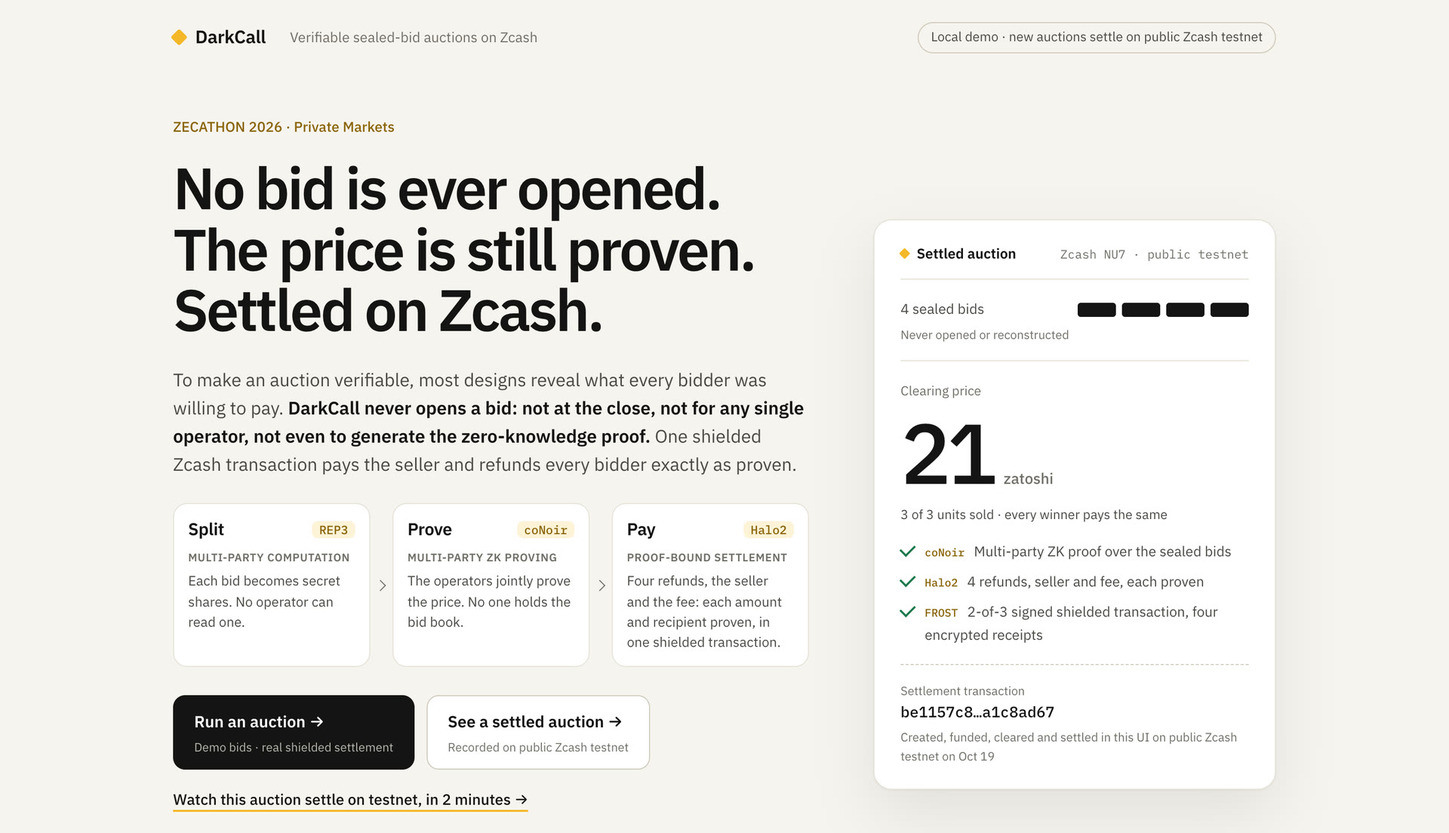
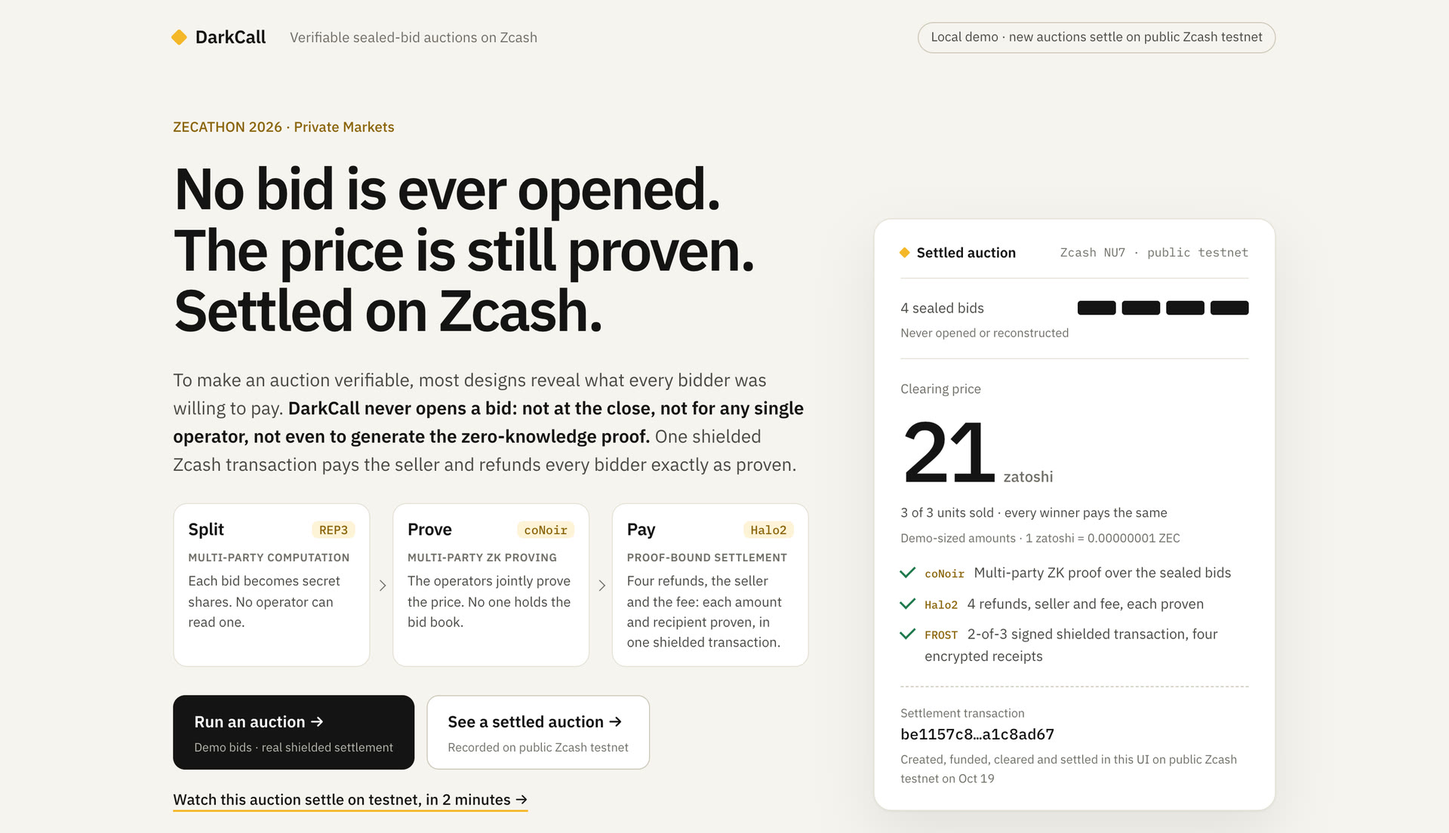
Answer the first-read questions: why 21, why 15,100, where to check
- Price: the walkthrough's Prove step says that with the demo bids 77, 61,
  43 and 21 and three units, the top three win and each pays 21, the
  highest losing bid.
- Deposit: the escrow card and Fund step break 15,100 into the 100 budget
  and a 15,000 processing fee (demo values) that covers the 30,000
  network fee and the operator fee, as in auction-core's settlement.
- Scale: the settled-auction card says amounts are demo-sized
  (1 zatoshi = 0.00000001 ZEC).
- Public data: the hero note says the public learns the price and the
  units sold, never the bid book or payouts, and that the price implies
  the highest losing bid's amount.
- Signatures: all three operators sign the accepted book; any two FROST
  signers authorize the settlement, only after every proof checks out.
- Time: the measured row shows 9 s to clear next to 19 min to settle on
  testnet (every output proven, signed and confirmed), replacing "1 tx".
- Comparison heading narrowed to "Commit-reveal opens the bids to prove
  the price."
- Testnet deposit and settlement txids link to ZecBlock, a third-party
  testnet explorer (both resolve as v6 transactions in blocks 4,518,254
  and 4,518,315), on the landing, the evidence page and the README, with
  a line separating what Zcash validates from what DarkCall's verifier
  checks, and the evidence record linked.

Both pages checked at 1440, 1280 and 390 px with no horizontal overflow.
The README image is recaptured; the video frames are unchanged.

diff --git a/demo/index.html b/demo/index.html
@@ -30,12 +30,12 @@
             <button id="show-recording" class="experience-card proof-card" aria-pressed="false"><span class="experience-heading">See a settled auction</span><span class="experience-caption">Open a bidder's receipt or verify the settlement.</span><span id="proof-card-scope" class="experience-scope">Recorded on isolated regtest</span></button>
           </nav>
           <a class="watch-link" href="/media/darkcall-demo-v2.mp4">Watch this auction settle on testnet, in 2 minutes →</a>
-          <p class="hero-note">Beyond the auction terms, one number is public: the clearing price, which by the auction rule equals the highest losing bid or the reserve. In this demo each bidder's own client runs as a local service; operators receive only shares and proofs, never a bid.</p>
+          <p class="hero-note">Beyond the auction terms, the public learns the clearing price and the units sold, never the bid book or any payout. By the auction rule the price equals the highest losing bid or the reserve, so that one amount is implied. In this demo each bidder's own client runs as a local service; operators receive only shares and proofs, never a bid.</p>
         </div>
         <aside class="hero-receipt" aria-label="A settled DarkCall auction">
           <div class="receipt-head"><span id="hero-label">Settled auction</span><span id="hero-chain">Zcash NU7 · regtest</span></div>
           <div class="receipt-bids"><span id="hero-tickets">4 sealed bids</span><div aria-hidden="true"><b></b><b></b><b></b><b></b></div><small>Never opened or reconstructed</small></div>
-          <div class="receipt-price"><span>Clearing price</span><strong><span id="hero-price">21</span><i>zatoshi</i></strong><small id="hero-sold">3 of 3 units sold · every winner pays the same</small></div>
+          <div class="receipt-price"><span>Clearing price</span><strong><span id="hero-price">21</span><i>zatoshi</i></strong><small id="hero-sold">3 of 3 units sold · every winner pays the same</small><small class="receipt-scale">Demo-sized amounts · 1 zatoshi = 0.00000001 ZEC</small></div>
           <ul class="receipt-checks">
             <li><span><em>coNoir</em> Multi-party ZK proof over the sealed bids</span></li>
             <li><span><em>Halo2</em> 4 refunds, seller and fee, each proven</span></li>
@@ -96,7 +96,7 @@
         <div class="walk-stage" id="walk-stage" data-step="1">
           <div class="w-bidders"><div class="w-bidder"><span>Ticket 01</span><b class="w-seal w-bid"><i>77</i></b><div class="w-shares w-from" data-from="1"><i class="s1">1</i><i class="s2">2</i><i class="s3">3</i><small>3 shares</small></div></div><div class="w-bidder"><span>Ticket 02</span><b class="w-seal w-bid"><i>61</i></b><div class="w-shares w-from" data-from="1"><i class="s1">1</i><i class="s2">2</i><i class="s3">3</i><small>3 shares</small></div></div><div class="w-bidder"><span>Ticket 03</span><b class="w-seal w-bid"><i>43</i></b><div class="w-shares w-from" data-from="1"><i class="s1">1</i><i class="s2">2</i><i class="s3">3</i><small>3 shares</small></div></div><div class="w-bidder"><span>Ticket 04</span><b class="w-seal w-bid"><i>21</i></b><div class="w-shares w-from" data-from="1"><i class="s1">1</i><i class="s2">2</i><i class="s3">3</i><small>3 shares</small></div></div></div>
           <div class="w-ops"><div class="w-op w-from" data-from="1" data-now="1 3"><span>Operator A holds ①③</span><div class="w-held"><div><em>T01</em><i class="s1">1</i><i class="s3">3</i></div><div><em>T02</em><i class="s1">1</i><i class="s3">3</i></div><div><em>T03</em><i class="s1">1</i><i class="s3">3</i></div><div><em>T04</em><i class="s1">1</i><i class="s3">3</i></div></div><small>Never all three shares of any bid</small></div><div class="w-op w-from" data-from="1" data-now="1 3"><span>Operator B holds ②①</span><div class="w-held"><div><em>T01</em><i class="s2">2</i><i class="s1">1</i></div><div><em>T02</em><i class="s2">2</i><i class="s1">1</i></div><div><em>T03</em><i class="s2">2</i><i class="s1">1</i></div><div><em>T04</em><i class="s2">2</i><i class="s1">1</i></div></div><small>Never all three shares of any bid</small></div><div class="w-op w-from" data-from="1" data-now="1 3"><span>Operator C holds ③②</span><div class="w-held"><div><em>T01</em><i class="s3">3</i><i class="s2">2</i></div><div><em>T02</em><i class="s3">3</i><i class="s2">2</i></div><div><em>T03</em><i class="s3">3</i><i class="s2">2</i></div><div><em>T04</em><i class="s3">3</i><i class="s2">2</i></div></div><small>Never all three shares of any bid</small></div></div>
-          <div class="w-escrow w-from" data-from="2"><span>Shielded 2-of-3 escrow</span><b>4 × 15,100 zatoshi</b><small>Accepted book signed by A, B and C</small></div>
+          <div class="w-escrow w-from" data-from="2"><span>Shielded 2-of-3 escrow</span><b>4 × 15,100 zatoshi</b><small>Each: 100 budget + 15,000 processing fee (demo values). All three operators sign the accepted book.</small></div>
           <div class="w-result w-from" data-from="3"><span>Computed on shares</span><b>Price 21 · 3 of 3 sold</b><small class="w-proof">coNoir proof ✓ · no bid list rebuilt</small></div>
           <div class="w-settle w-from" data-from="4"><span>One shielded transaction · six outputs</span><ol><li><span>Refund · Ticket 01</span><b class="w-seal"><i>79</i></b><em>Halo2 ✓ note</em></li><li><span>Refund · Ticket 02</span><b class="w-seal"><i>79</i></b><em>Halo2 ✓ note</em></li><li><span>Refund · Ticket 03</span><b class="w-seal"><i>79</i></b><em>Halo2 ✓ note</em></li><li><span>Refund · Ticket 04</span><b class="w-seal"><i>100</i></b><em>Halo2 ✓ note</em></li><li><span>Seller · payment</span><b class="w-seal"><i>63</i></b><em>Halo2 ✓ note</em></li><li><span>Operator · fee</span><b class="w-seal"><i>30,000</i></b><em>Halo2 ✓ note</em></li></ol></div>
           <div class="w-public w-from" data-from="5"><div><span>Anyone sees</span><b>Price 21 · 3 sold · proofs ✓</b><small>No secrets needed to verify</small></div><div class="w-own"><span>Ticket 01's private receipt</span><b>Won · refund 79</b><small>Decrypted from its own memo with its own key</small></div></div>
@@ -125,7 +125,7 @@
       </div>
       <div class="bind-facts">
         <p><b>Across two curves.</b> The auction proof lives on BN254, while Zcash's shielded notes are commitments on Pallas, so the auction proof cannot speak about them directly. Each Halo2 proof recomputes one row's BN254 Poseidon2 commitment inside a Pallas circuit and shows that it holds the same amount and recipient as one native note commitment.</p>
-        <p><b>What checks what.</b> The Zcash network validates the native transaction. DarkCall's public verifier checks the auction proof, the six output bindings and the operator-signed accepted book from the published bundle, with no secrets. Honest signers sign only after every proof checks out.</p>
+        <p><b>What checks what.</b> The Zcash network validates the native transaction. DarkCall's public verifier checks the auction proof, the six output bindings and the operator-signed accepted book from the published bundle, with no secrets. All three operators sign the accepted book; any two of the three FROST signers authorize the settlement, and honest signers do so only after every proof checks out.</p>
       </div>
       <p class="bind-design"><b>Performance note.</b> In an earlier experiment, coNoir's joint proof of the six-row plan took 1,655 s with SHA-256 row commitments and 8.2 s with field-native Poseidon2. Both figures cover that proving step only, not the six Halo2 proofs.</p>
     </section>
@@ -135,17 +135,17 @@
       <h2 id="proven-title">It ran end to end on testnet.</h2>
       <p class="section-lead">On October 19 this auction was created, funded, cleared and settled <b>in this UI on standard public Zcash testnet (NU7)</b>. It is the auction in the video and under "See a settled auction".</p>
       <dl class="proven-facts">
-        <div><dt>Deposits</dt><dd><code>af6cf7cf…eff6354</code><small>Block 4,518,254 · 2 confirmations</small></dd></div>
+        <div><dt>Deposits</dt><dd><a href="https://testnet.zecblock.com/tx/af6cf7cf6314bd946d76aec951f8277f12a4e27a97a335b81dbcbc241eff6354"><code>af6cf7cf…eff6354</code></a><small>Block 4,518,254 · 2 confirmations</small></dd></div>
         <div><dt>Clearing proof</dt><dd><strong>8.1 s</strong><small>Price 21 · 3 of 3 sold</small></dd></div>
-        <div><dt>Settlement</dt><dd><code>be1157c8…a1c8ad67</code><small>Block 4,518,315 · 2 confirmations</small></dd></div>
+        <div><dt>Settlement</dt><dd><a href="https://testnet.zecblock.com/tx/be1157c884ce015e87993f105ebf44c3ab7f78e895d783fd002948c3a1c8ad67"><code>be1157c8…a1c8ad67</code></a><small>Block 4,518,315 · 2 confirmations · settled in 19&nbsp;min</small></dd></div>
         <div><dt>Public check</dt><dd><strong>102 s</strong><small>No secrets · tampered proof refused</small></dd></div>
       </dl>
-      <p class="fine-print">Chain data came from one lightwalletd provider (testnet.zec.rocks). Record: evidence/2026-10-19-public-testnet-settlement.json in the repository.</p>
+      <p class="fine-print">Zcash validated these native transactions; DarkCall's public verifier checked the auction proof, the six output bindings and the signed accepted book. Transaction links open ZecBlock, a third-party testnet explorer. The run read chain data from one lightwalletd provider (testnet.zec.rocks). <a href="https://github.com/yugocabrio/ZECATHON/blob/main/evidence/2026-10-19-public-testnet-settlement.json">Full record</a>.</p>
     </section>
 
     <section class="landing-more" aria-labelledby="compare-title">
-      <h2 id="compare-title">Other auctions open the bids to prove the price.</h2>
-      <p class="section-lead">Commit–reveal and published viewing keys show every bid amount after the close. That matters wherever amounts are strategic: allocation rounds, ad slots, procurement. DarkCall proves the price without opening any, then pays out in shielded ZEC.</p>
+      <h2 id="compare-title">Commit–reveal opens the bids to prove the price.</h2>
+      <p class="section-lead">So does publishing a viewing key: every bid amount is visible after the close. That matters wherever amounts are strategic: allocation rounds, ad slots, procurement. DarkCall proves the price without opening any, then pays out in shielded ZEC.</p>
       <div class="compare-wrap">
         <table class="compare">
           <thead><tr><th scope="col"><span class="visually-hidden">Property</span></th><th scope="col" class="us">DarkCall</th><th scope="col">Open on-chain auction</th><th scope="col">Commit–reveal or published viewing key</th><th scope="col">Trusted auctioneer or key committee</th></tr></thead>
@@ -161,7 +161,7 @@
       <div class="measured" aria-label="Measured on one 16 GiB laptop">
         <div><strong>0.6 s</strong><span>to seal a bid with its zero-knowledge proof</span></div>
         <div><strong>9 s</strong><span>to clear four sealed bids by MPC, proof included</span></div>
-        <div><strong>1 tx</strong><span>pays the seller and refunds all four bidders</span></div>
+        <div><strong>19 min</strong><span>to settle on testnet: every output proven, signed and confirmed</span></div>
         <div><strong>~100 s</strong><span>for anyone to verify a settlement, no secrets needed</span></div>
       </div>
       <details class="landing-trust"><summary>Trust model: what DarkCall does not prove</summary><ul>

diff --git a/docs/index.html b/docs/index.html
@@ -342,7 +342,7 @@ footer a {color:var(--ink-2)}
         <div class="walk-stage static">
           <div class="w-bidders"><div class="w-bidder"><span>Ticket 01</span><b class="w-seal w-bid"><i>77</i></b><div class="w-shares w-from" data-from="1"><i class="s1">1</i><i class="s2">2</i><i class="s3">3</i><small>3 shares</small></div></div><div class="w-bidder"><span>Ticket 02</span><b class="w-seal w-bid"><i>61</i></b><div class="w-shares w-from" data-from="1"><i class="s1">1</i><i class="s2">2</i><i class="s3">3</i><small>3 shares</small></div></div><div class="w-bidder"><span>Ticket 03</span><b class="w-seal w-bid"><i>43</i></b><div class="w-shares w-from" data-from="1"><i class="s1">1</i><i class="s2">2</i><i class="s3">3</i><small>3 shares</small></div></div><div class="w-bidder"><span>Ticket 04</span><b class="w-seal w-bid"><i>21</i></b><div class="w-shares w-from" data-from="1"><i class="s1">1</i><i class="s2">2</i><i class="s3">3</i><small>3 shares</small></div></div></div>
           <div class="w-ops"><div class="w-op w-from" data-from="1" data-now="1 3"><span>Operator A holds ①③</span><div class="w-held"><div><em>T01</em><i class="s1">1</i><i class="s3">3</i></div><div><em>T02</em><i class="s1">1</i><i class="s3">3</i></div><div><em>T03</em><i class="s1">1</i><i class="s3">3</i></div><div><em>T04</em><i class="s1">1</i><i class="s3">3</i></div></div><small>Never all three shares of any bid</small></div><div class="w-op w-from" data-from="1" data-now="1 3"><span>Operator B holds ②①</span><div class="w-held"><div><em>T01</em><i class="s2">2</i><i class="s1">1</i></div><div><em>T02</em><i class="s2">2</i><i class="s1">1</i></div><div><em>T03</em><i class="s2">2</i><i class="s1">1</i></div><div><em>T04</em><i class="s2">2</i><i class="s1">1</i></div></div><small>Never all three shares of any bid</small></div><div class="w-op w-from" data-from="1" data-now="1 3"><span>Operator C holds ③②</span><div class="w-held"><div><em>T01</em><i class="s3">3</i><i class="s2">2</i></div><div><em>T02</em><i class="s3">3</i><i class="s2">2</i></div><div><em>T03</em><i class="s3">3</i><i class="s2">2</i></div><div><em>T04</em><i class="s3">3</i><i class="s2">2</i></div></div><small>Never all three shares of any bid</small></div></div>
-          <div class="w-escrow w-from" data-from="2"><span>Shielded 2-of-3 escrow</span><b>4 × 15,100 zatoshi</b><small>Accepted book signed by A, B and C</small></div>
+          <div class="w-escrow w-from" data-from="2"><span>Shielded 2-of-3 escrow</span><b>4 × 15,100 zatoshi</b><small>Each: 100 budget + 15,000 processing fee (demo values). All three operators sign the accepted book.</small></div>
           <div class="w-result w-from" data-from="3"><span>Computed on shares</span><b>Price 21 · 3 of 3 sold</b><small class="w-proof">coNoir proof ✓ · no bid list rebuilt</small></div>
           <div class="w-settle w-from" data-from="4"><span>One shielded transaction · six outputs</span><ol><li><span>Refund · Ticket 01</span><b class="w-seal"><i>79</i></b><em>Halo2 ✓ note</em></li><li><span>Refund · Ticket 02</span><b class="w-seal"><i>79</i></b><em>Halo2 ✓ note</em></li><li><span>Refund · Ticket 03</span><b class="w-seal"><i>79</i></b><em>Halo2 ✓ note</em></li><li><span>Refund · Ticket 04</span><b class="w-seal"><i>100</i></b><em>Halo2 ✓ note</em></li><li><span>Seller · payment</span><b class="w-seal"><i>63</i></b><em>Halo2 ✓ note</em></li><li><span>Operator · fee</span><b class="w-seal"><i>30,000</i></b><em>Halo2 ✓ note</em></li></ol></div>
           <div class="w-public w-from" data-from="5"><div><span>Anyone sees</span><b>Price 21 · 3 sold · proofs ✓</b><small>No secrets needed to verify</small></div><div class="w-own"><span>Ticket 01's private receipt</span><b>Won · refund 79</b><small>Decrypted from its own memo with its own key</small></div></div>
@@ -371,7 +371,7 @@ footer a {color:var(--ink-2)}
       </div>
       <div class="bind-facts">
         <p><b>Across two curves.</b> The auction proof lives on BN254, while Zcash's shielded notes are commitments on Pallas, so the auction proof cannot speak about them directly. Each Halo2 proof recomputes one row's BN254 Poseidon2 commitment inside a Pallas circuit and shows that it holds the same amount and recipient as one native note commitment.</p>
-        <p><b>What checks what.</b> The Zcash network validates the native transaction. DarkCall's public verifier checks the auction proof, the six output bindings and the operator-signed accepted book from the published bundle, with no secrets. Honest signers sign only after every proof checks out.</p>
+        <p><b>What checks what.</b> The Zcash network validates the native transaction. DarkCall's public verifier checks the auction proof, the six output bindings and the operator-signed accepted book from the published bundle, with no secrets. All three operators sign the accepted book; any two of the three FROST signers authorize the settlement, and honest signers do so only after every proof checks out.</p>
       </div>
       <p class="bind-design"><b>Performance note.</b> In an earlier experiment, coNoir's joint proof of the six-row plan took 1,655 s with SHA-256 row commitments and 8.2 s with field-native Poseidon2. Both figures cover that proving step only, not the six Halo2 proofs.</p>
     </section>
@@ -379,16 +379,16 @@ footer a {color:var(--ink-2)}
 <h2>Settled on public Zcash testnet.</h2>
 <p class="sub">On October 19 the auction in the video was created, funded, cleared and settled by clicking through the browser on standard public testnet (NU7), with testnet coins and the same admission, proofs and signing as everything below.</p>
 <dl class="facts">
-<dt>Deposits</dt><dd><code>af6cf7cf6314bd946d76aec951f8277f12a4e27a97a335b81dbcbc241eff6354</code><br>block 4,518,254, two confirmations; four client proofs and twelve share pairs re-verified</dd>
+<dt>Deposits</dt><dd><a href="https://testnet.zecblock.com/tx/af6cf7cf6314bd946d76aec951f8277f12a4e27a97a335b81dbcbc241eff6354"><code>af6cf7cf6314bd946d76aec951f8277f12a4e27a97a335b81dbcbc241eff6354</code></a><br>block 4,518,254, two confirmations; four client proofs and twelve share pairs re-verified</dd>
 <dt>Clearing</dt><dd>REP3 price 21 zatoshi, 3 of 3 sold, after funding</dd>
-<dt>Settlement</dt><dd><code>be1157c884ce015e87993f105ebf44c3ab7f78e895d783fd002948c3a1c8ad67</code><br>block 4,518,315, two confirmations; six output bindings and 2-of-3 FROST, 1122 s</dd>
+<dt>Settlement</dt><dd><a href="https://testnet.zecblock.com/tx/be1157c884ce015e87993f105ebf44c3ab7f78e895d783fd002948c3a1c8ad67"><code>be1157c884ce015e87993f105ebf44c3ab7f78e895d783fd002948c3a1c8ad67</code></a><br>block 4,518,315, two confirmations; six output bindings and 2-of-3 FROST, 1122 s</dd>
 <dt>Public check</dt><dd>102 s with no secrets; a corrupted receipt proof is refused</dd>
 <dt>Own receipts</dt><dd>Ticket 01 won, refund 79; Ticket 04 lost, refund 100; each decrypted from its own memo</dd>
 </dl>
-<p class="caption">An earlier testnet auction driven by the HTTP harness (settlement 8e6da99bc6…034f0db7) also passed every refusal check. Chain data came from one lightwalletd provider (testnet.zec.rocks) over validated TLS. <a href="https://github.com/yugocabrio/ZECATHON/blob/main/evidence/2026-10-19-public-testnet-settlement.json">Full record</a>.</p>
+<p class="caption">An earlier testnet auction driven by the HTTP harness (settlement 8e6da99bc6…034f0db7) also passed every refusal check. Zcash validated the native transactions; DarkCall's public verifier checked the auction proof, the six output bindings and the signed accepted book. Transaction links open ZecBlock, a third-party testnet explorer. Chain data came from one lightwalletd provider (testnet.zec.rocks) over validated TLS. <a href="https://github.com/yugocabrio/ZECATHON/blob/main/evidence/2026-10-19-public-testnet-settlement.json">Full record</a>.</p>
 
-<h2>Other auctions open the bids to prove the price.</h2>
-<p class="sub">Commit–reveal and published viewing keys show every bid amount after the close. DarkCall proves the price without opening any, then pays out in shielded ZEC.</p>
+<h2>Commit–reveal opens the bids to prove the price.</h2>
+<p class="sub">So does publishing a viewing key: every bid amount is visible after the close. DarkCall proves the price without opening any, then pays out in shielded ZEC.</p>
 <div class="compare-wrap"><table class="compare">
 <thead><tr><th scope="col"></th><th scope="col" class="us">DarkCall</th><th scope="col">Open on-chain auction</th><th scope="col">Commit–reveal or published viewing key</th><th scope="col">Trusted auctioneer or key committee</th></tr></thead>
 <tbody>
@@ -401,7 +401,7 @@ footer a {color:var(--ink-2)}
 <div class="measured">
 <div><strong>0.6 s</strong><span>to seal a bid with its zero-knowledge proof</span></div>
 <div><strong>8.1 s</strong><span>to clear four sealed bids by MPC in this run, proof included</span></div>
-<div><strong>1 tx</strong><span>pays the seller and refunds all four bidders</span></div>
+<div><strong>19 min</strong><span>to settle on testnet: every output proven, signed and confirmed</span></div>
 <div><strong>~100 s</strong><span>for anyone to verify a settlement, no secrets needed</span></div>
 </div>
 <p class="caption">Common designs compared, not specific projects. Timings from one 16 GiB laptop.</p>
@@ -411,8 +411,8 @@ footer a {color:var(--ink-2)}
 <dl class="facts">
 <dt>Auction</dt><dd><code>4dde6fcbc11bb931bcecb01a6617510f</code></dd>
 <dt>Accepted root (same book throughout)</dt><dd><code>0636b15349…fb153498</code></dd>
-<dt>Deposit transaction</dt><dd><code>af6cf7cf6314bd946d76aec951f8277f12a4e27a97a335b81dbcbc241eff6354</code></dd>
-<dt>Settlement transaction</dt><dd><code>be1157c884ce015e87993f105ebf44c3ab7f78e895d783fd002948c3a1c8ad67</code></dd>
+<dt>Deposit transaction</dt><dd><a href="https://testnet.zecblock.com/tx/af6cf7cf6314bd946d76aec951f8277f12a4e27a97a335b81dbcbc241eff6354"><code>af6cf7cf6314bd946d76aec951f8277f12a4e27a97a335b81dbcbc241eff6354</code></a></dd>
+<dt>Settlement transaction</dt><dd><a href="https://testnet.zecblock.com/tx/be1157c884ce015e87993f105ebf44c3ab7f78e895d783fd002948c3a1c8ad67"><code>be1157c884ce015e87993f105ebf44c3ab7f78e895d783fd002948c3a1c8ad67</code></a></dd>
 <dt>Outcome</dt><dd>21 zatoshi per unit, 3 of 3 sold. Each winner gets 79 back, the loser gets 100, and the seller receives 63.</dd>
 </dl>
 <article class="step"><a class="shot" href="site/02-create.jpg"><img src="site/02-create.jpg" alt="Create" loading="lazy" width="1120" height="1080"></a>

diff --git a/demo/app.js b/demo/app.js
@@ -549,8 +549,8 @@ setInterval(refreshRoom,1000);
   const stage=$('walk-stage'); if (!stage) return;
   const captions=[
     [['Seal. ',1],['Each bid becomes a commitment and three secret shares, ① ② ③. Operator A holds ① ③, B holds ② ①, C holds ③ ②: ',0],['no operator ever holds all three, so none can read a bid',1],['. A zero-knowledge proof ties every commitment to its shares.',0]],
-    [['Fund. ',1],['Each ticket locks its budget plus fee in a ',0],['shielded 2-of-3 escrow',1],['. The operators check the deposits against the same proofs and shares, then all three ',0],['sign the accepted book',1],['.',0]],
-    [['Prove. ',1],['The three operators compute together on their shares and generate one proof jointly: multi-party ZK proving with coNoir. Three units for four bids gives a ',0],['price of 21',1],[', the highest losing bid. The proof shows it follows the rules over exactly the committed bids; ',0],['no bid list is ever rebuilt',1],['.',0]],
+    [['Fund. ',1],['Each ticket locks 15,100 zatoshi, its 100 budget plus a 15,000 processing fee for the network and operator fees, in a ',0],['shielded 2-of-3 escrow',1],['. The operators check the deposits against the same proofs and shares, then all three ',0],['sign the accepted book',1],['; any two can later authorize the payout.',0]],
+    [['Prove. ',1],['The three operators compute together on their shares and generate one proof jointly: multi-party ZK proving with coNoir. With the demo bids 77, 61, 43 and 21 and three units, the top three win and each pays the ',0],['price of 21',1],[', the highest losing bid. The proof shows it follows the rules over exactly the committed bids; ',0],['no bid list is ever rebuilt',1],['.',0]],
     [['Settle. ',1],['The same computation yields six payment rows: refunds of 79, 79, 79 and 100, 63 to the seller, and the operator fee. ',0],['Six Halo2 proofs bind each row to a real note',1],[' in one shielded transaction.',0]],
     [['Verify. ',1],['Anyone checks the proofs ',0],['with no secrets',1],[': price 21, three sold, every output bound to the result. Ticket 01 decrypts its own memo with its own key: ',0],['won, refund 79',1],['.',0]],
   ];

diff --git a/demo/style.css b/demo/style.css
@@ -71,6 +71,7 @@ h1 {font-size:clamp(44px,6.6vw,80px);line-height:1.02;letter-spacing:-.04em;max-
 .receipt-price strong {display:flex;align-items:baseline;gap:10px;font-size:84px;line-height:1;font-weight:500;letter-spacing:-.05em;font-variant-numeric:tabular-nums;margin:8px 0 8px}
 .receipt-price strong i {font-style:normal;font-size:15px;letter-spacing:0;color:var(--ink-3)}
 .receipt-price small {font-size:13px;color:var(--ink-2)}
+.receipt-price .receipt-scale {display:block;margin-top:4px;font-size:12px;color:var(--ink-3)}
 .receipt-checks {list-style:none;margin:0;padding:0 0 18px;display:grid;gap:8px}
 .receipt-checks li {display:flex;gap:10px;align-items:baseline;color:var(--ink-2)}
 .receipt-checks li::before {content:"";flex:none;width:12px;height:7px;border-left:2px solid var(--green);border-bottom:2px solid var(--green);transform:translateY(-3px) rotate(-45deg)}

diff --git a/scripts/build_evidence_site.py b/scripts/build_evidence_site.py
@@ -17,6 +17,7 @@ DOCS = ROOT / 'docs'
 SITE = DOCS / 'site'
 MEDIA = ROOT / 'demo/media/v2'
 REPO = 'https://github.com/yugocabrio/ZECATHON/blob/main/'
+EXPLORER = 'https://testnet.zecblock.com/tx/'
 FRAMES = ['01-landing', '02-create', '04-sealed', '07-funded', '09-cleared', '10-own-result',
           '16-settled', '18-receipt-won', '19-receipt-lost', '20-receipt-tamper']
 e = html.escape
@@ -115,7 +116,7 @@ def build():
         bundle_path=e(tn_bundle['bundle']), authority_path=e(tn_bundle['authority']),
         tn_deposit=e(browser_run['deposit_txid']), tn_deposit_height=f"{browser_run['deposit_block']['height']:,}",
         tn_txid=e(browser_run['settlement_txid']), tn_height=f"{browser_run['settlement_block']['height']:,}",
-        tn_settle_s=round(browser_run['settlement_driver_seconds']), tn_check_s=round(browser_run['public_verification_seconds']),
+        tn_settle_s=round(browser_run['settlement_driver_seconds']), tn_settle_min=round(browser_run['settlement_driver_seconds'] / 60), explorer=EXPLORER, tn_check_s=round(browser_run['public_verification_seconds']),
         tn_price=testnet['clearing']['price'], tn_sold=testnet['clearing']['sold'],
         tn_api_txid=e(short(testnet['settlement']['txid'])),
         how_html=how_html, how_css=how_css)
@@ -259,16 +260,16 @@ footer a {{color:var(--ink-2)}}
 <h2>Settled on public Zcash testnet.</h2>
 <p class="sub">On October 19 the auction in the video was created, funded, cleared and settled by clicking through the browser on standard public testnet (NU7), with testnet coins and the same admission, proofs and signing as everything below.</p>
 <dl class="facts">
-<dt>Deposits</dt><dd><code>{tn_deposit}</code><br>block {tn_deposit_height}, two confirmations; four client proofs and twelve share pairs re-verified</dd>
+<dt>Deposits</dt><dd><a href="{explorer}{tn_deposit}"><code>{tn_deposit}</code></a><br>block {tn_deposit_height}, two confirmations; four client proofs and twelve share pairs re-verified</dd>
 <dt>Clearing</dt><dd>REP3 price {tn_price} zatoshi, {tn_sold} of 3 sold, after funding</dd>
-<dt>Settlement</dt><dd><code>{tn_txid}</code><br>block {tn_height}, two confirmations; six output bindings and 2-of-3 FROST, {tn_settle_s} s</dd>
+<dt>Settlement</dt><dd><a href="{explorer}{tn_txid}"><code>{tn_txid}</code></a><br>block {tn_height}, two confirmations; six output bindings and 2-of-3 FROST, {tn_settle_s} s</dd>
 <dt>Public check</dt><dd>{tn_check_s} s with no secrets; a corrupted receipt proof is refused</dd>
 <dt>Own receipts</dt><dd>Ticket 01 won, refund 79; Ticket 04 lost, refund 100; each decrypted from its own memo</dd>
 </dl>
-<p class="caption">An earlier testnet auction driven by the HTTP harness (settlement {tn_api_txid}) also passed every refusal check. Chain data came from one lightwalletd provider (testnet.zec.rocks) over validated TLS. <a href="{repo}evidence/2026-10-19-public-testnet-settlement.json">Full record</a>.</p>
+<p class="caption">An earlier testnet auction driven by the HTTP harness (settlement {tn_api_txid}) also passed every refusal check. Zcash validated the native transactions; DarkCall's public verifier checked the auction proof, the six output bindings and the signed accepted book. Transaction links open ZecBlock, a third-party testnet explorer. Chain data came from one lightwalletd provider (testnet.zec.rocks) over validated TLS. <a href="{repo}evidence/2026-10-19-public-testnet-settlement.json">Full record</a>.</p>
 
-<h2>Other auctions open the bids to prove the price.</h2>
-<p class="sub">Commit–reveal and published viewing keys show every bid amount after the close. DarkCall proves the price without opening any, then pays out in shielded ZEC.</p>
+<h2>Commit–reveal opens the bids to prove the price.</h2>
+<p class="sub">So does publishing a viewing key: every bid amount is visible after the close. DarkCall proves the price without opening any, then pays out in shielded ZEC.</p>
 <div class="compare-wrap"><table class="compare">
 <thead><tr><th scope="col"></th><th scope="col" class="us">DarkCall</th><th scope="col">Open on-chain auction</th><th scope="col">Commit–reveal or published viewing key</th><th scope="col">Trusted auctioneer or key committee</th></tr></thead>
 <tbody>
@@ -281,7 +282,7 @@ footer a {{color:var(--ink-2)}}
 <div class="measured">
 <div><strong>0.6 s</strong><span>to seal a bid with its zero-knowledge proof</span></div>
 <div><strong>{clearing_s} s</strong><span>to clear four sealed bids by MPC in this run, proof included</span></div>
-<div><strong>1 tx</strong><span>pays the seller and refunds all four bidders</span></div>
+<div><strong>{tn_settle_min} min</strong><span>to settle on testnet: every output proven, signed and confirmed</span></div>
 <div><strong>~100 s</strong><span>for anyone to verify a settlement, no secrets needed</span></div>
 </div>
 <p class="caption">Common designs compared, not specific projects. Timings from one 16 GiB laptop.</p>
@@ -291,8 +292,8 @@ footer a {{color:var(--ink-2)}}
 <dl class="facts">
 <dt>Auction</dt><dd><code>{auction}</code></dd>
 <dt>Accepted root (same book throughout)</dt><dd><code>{root}</code></dd>
-<dt>Deposit transaction</dt><dd><code>{deposit}</code></dd>
-<dt>Settlement transaction</dt><dd><code>{txid}</code></dd>
+<dt>Deposit transaction</dt><dd><a href="{explorer}{deposit}"><code>{deposit}</code></a></dd>
+<dt>Settlement transaction</dt><dd><a href="{explorer}{txid}"><code>{txid}</code></a></dd>
 <dt>Outcome</dt><dd>{price} zatoshi per unit, {sold} of 3 sold. Each winner gets {winner_refund} back, the loser gets 100, and the seller receives {seller}.</dd>
 </dl>
 {steps}

diff --git a/README.md b/README.md
@@ -19,7 +19,7 @@ can verify pays the seller and refunds every bidder exactly as proven.**
 ZECATHON 2026 · Private Markets track. **[Watch the 2-minute demo](demo/media/v2/darkcall-demo-v2.mp4)**:
 one real auction, from creation to shielded receipts, with every time cut labeled.
 **Settled on public Zcash testnet** from the browser on Oct 19: settlement tx
-`be1157c8…a1c8ad67` at block 4,518,315 ([record](#settled-on-public-zcash-testnet)).
+[`be1157c8…a1c8ad67`](https://testnet.zecblock.com/tx/be1157c884ce015e87993f105ebf44c3ab7f78e895d783fd002948c3a1c8ad67) at block 4,518,315 ([record](#settled-on-public-zcash-testnet)).
 
 ![DarkCall landing page: no bid is ever opened, the price is still proven, settled on Zcash; split, prove and pay as multi-party computation, multi-party ZK proving and proof-bound settlement; beside it, a real auction settled in this UI on public Zcash testnet](demo/media/landing-hero.jpg)
 
@@ -143,11 +143,15 @@ auction in the video and under "See a settled auction":
 
 | Step | Public testnet record |
 | --- | --- |
-| Fund | Deposit tx `af6cf7cf…eff6354`, block 4,518,254, 2 confirmations. 4 client proofs and 12 share pairs re-verified; 3 operators signed the same root |
+| Fund | Deposit tx [`af6cf7cf…eff6354`](https://testnet.zecblock.com/tx/af6cf7cf6314bd946d76aec951f8277f12a4e27a97a335b81dbcbc241eff6354), block 4,518,254, 2 confirmations. 4 client proofs and 12 share pairs re-verified; 3 operators signed the same root |
 | Clear | REP3 price **21**, 3 of 3 sold, 8.1 s, after funding |
-| Settle | Settlement tx `be1157c8…a1c8ad67`, block 4,518,315, 2 confirmations. Six output bindings, 2-of-3 DKG FROST |
+| Settle | Settlement tx [`be1157c8…a1c8ad67`](https://testnet.zecblock.com/tx/be1157c884ce015e87993f105ebf44c3ab7f78e895d783fd002948c3a1c8ad67), block 4,518,315, 2 confirmations. Six output bindings, 2-of-3 DKG FROST |
 | Public check | 102 s with no secrets; a corrupted receipt proof is refused by the fixed verifier |
 | Own receipts | Ticket 01 won, refund 79; Ticket 04 lost, refund 100; each decrypted from its own memo |
+
+Transaction links open ZecBlock, a third-party testnet explorer. The Zcash network
+validated these native transactions; DarkCall's public verifier checks the auction
+proof and the six output bindings:
 
 ```sh
 ./verify.sh --funded demo/artifacts/testnet-auction-nu7-v2 \

diff --git a/TASKS.md b/TASKS.md
@@ -36,6 +36,12 @@ Done:
       "six" first appears; binding section led by "Proving the payment is the other half", labelled
       multi-party ZK proving × Halo2 output binding, with the curve bridge, the check split and the
       performance note kept apart. README image recaptured from the landing.
+- [x] First-read gaps (Oct 19): why the price is 21 (demo bids 77/61/43/21, top three win), what the
+      15,100 deposit is (100 budget + 15,000 processing fee covering the 30,000 network fee and the
+      operator fee), demo-sized amounts, price and units sold both public, three signatures on the
+      book vs any two FROST signers for the payout, clearing 9 s vs settlement 19 min, comparison
+      heading narrowed to commit–reveal. Testnet txids link to ZecBlock (third-party explorer;
+      both resolve, v6, blocks match the record) on the landing, evidence page and README.
 - [x] Review fixes: job timeouts stop the whole process tree before the lock is released;
       "Start another auction" cannot drop ticket capabilities mid-job or silently; the bid
       helper is described as the bidder's own client; colluding-signer caveat stated.
